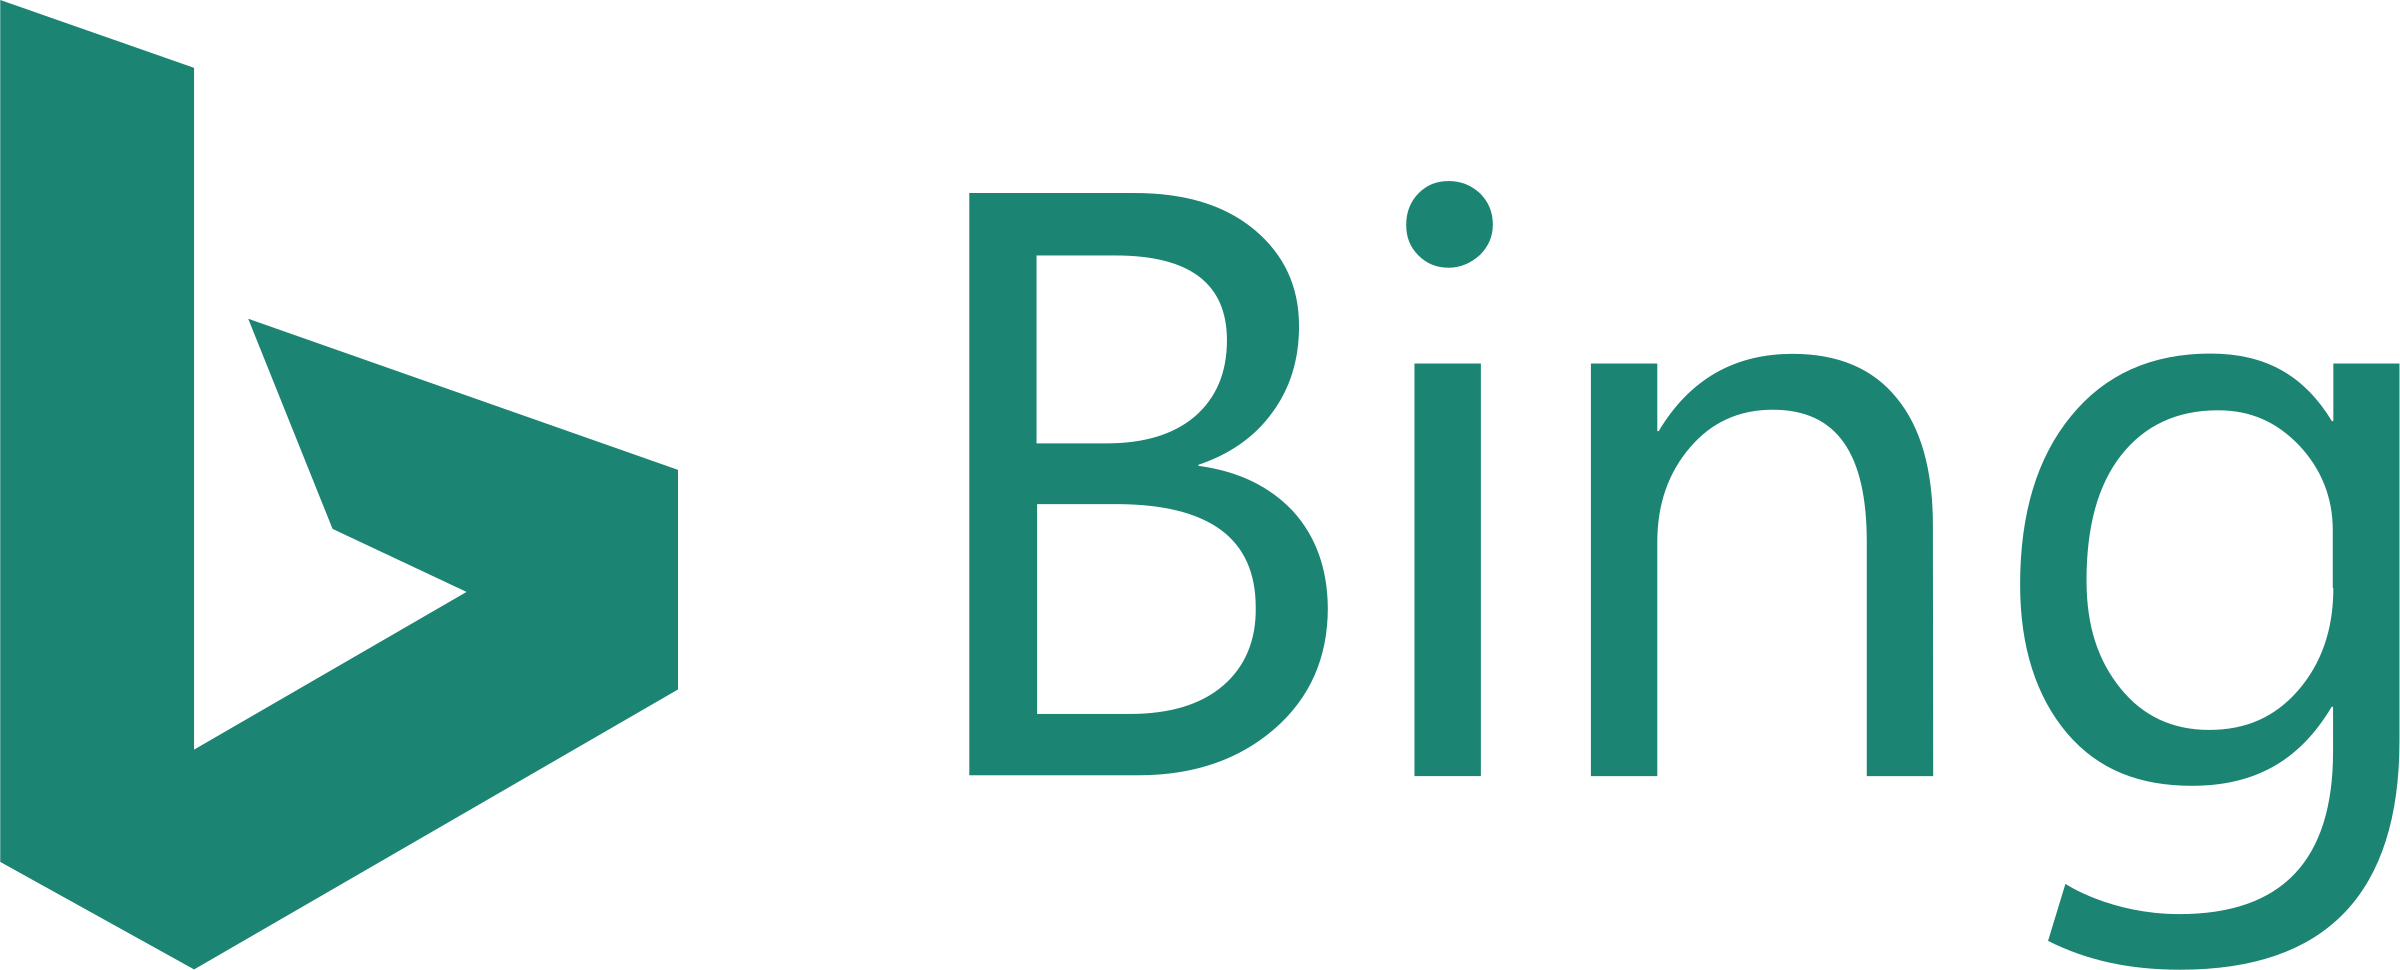
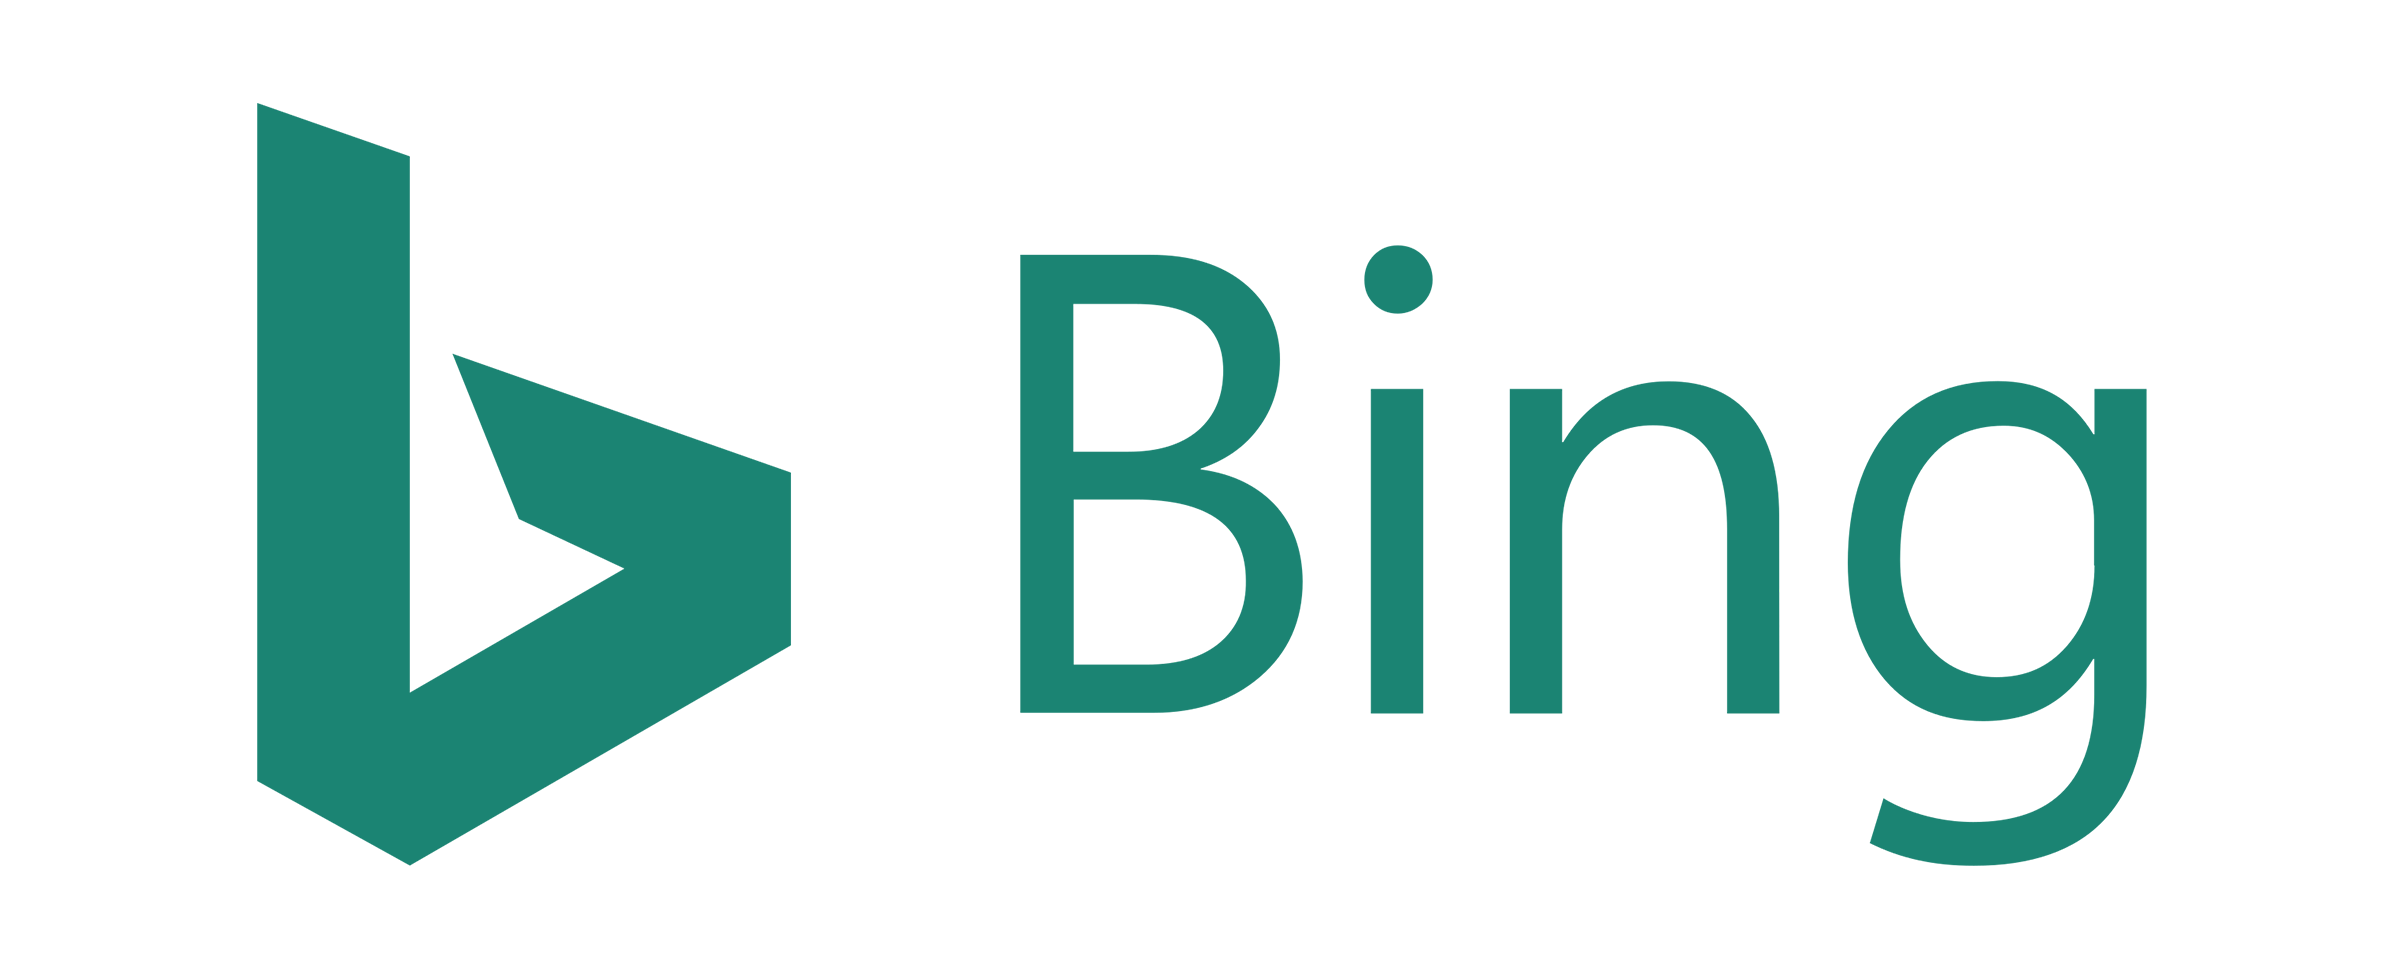
add change search engine

diff --git a/index.html b/index.html
@@ -20,7 +20,7 @@
 		<div class="search-box">
 			<!-- logo -->
 			<div id="logo">
-				<div>
+				<div id="state">
 					<img id="img" src="https://s2.ax1x.com/2020/01/26/1nnYwR.md.png">
 				</div>
 			</div>
@@ -40,16 +40,16 @@
 			</div>
 		</div>
 		<!-- 书签、引擎选择器 -->
-		<div class="Select" onclick="">导航 <img src="img/search-change.svg?v=2ae7ab8"></div>
+		<div id="Select" class="Select" onclick="select()">标签 <img src="img/search-change.svg?v=2ae7ab8"></div>
 
 		<!-- 书签 -->
-		<div class="folder">
+		<div id="folder" class="folder">
 			<ul>
 				<li class="folder-item col-xs-3 col-sm-3 col-md-3 col-lg-3">
 					<a href="folder://">
 						<div class="folder-item-box">
 							<img class="folder-item-img" src="img/folder.png">
-							<p style="text-align: center;">书签</p>
+							<p>书签</p>
 						</div>
 					</a>
 				</li>
@@ -57,7 +57,7 @@
 					<a href="http://via-app.cn">
 						<div class="folder-item-box">
 							<img class="folder-item-img" src="img/via.png">
-							<p style="text-align: center;">Via插件</p>
+							<p>Via插件</p>
 						</div>
 					</a>
 				</li>
@@ -65,7 +65,7 @@
 					<a href="https://tophub.today/">
 						<div class="folder-item-box">
 							<img class="folder-item-img" src="img/headline.png">
-							<p style="text-align: center;">热榜</p>
+							<p>热榜</p>
 						</div>
 					</a>
 				</li>
@@ -73,7 +73,7 @@
 					<a href="https://m.apkpure.com/cn/">
 						<div class="folder-item-box">
 							<img class="folder-item-img" src="img/apkpure.png">
-							<p style="text-align: center;">Apkpure</p>
+							<p>Apkpure</p>
 						</div>
 					</a>
 				</li>
@@ -81,7 +81,7 @@
 					<a href="https://www.htcp.net/">
 						<div class="folder-item-box">
 							<img class="folder-item-img" src="img/yunmeng.png">
-							<p style="text-align: center;">云梦</p>
+							<p>云梦</p>
 						</div>
 					</a>
 				</li>
@@ -89,7 +89,48 @@
 					<a href="http://www.carrotchou.blog">
 						<div class="folder-item-box">
 							<img class="folder-item-img" src="img/carrot.png">
-							<p style="text-align: center;">萝卜周</p>
+							<p>萝卜周</p>
+						</div>
+					</a>
+				</li>
+			</ul>
+		</div>
+
+		<!-- 导航引擎 -->
+		<div id="nav" class="nav">
+			<ul>
+				<li onclick="baidu()" class="folder-item col-xs-3 col-sm-3 col-md-3 col-lg-3">
+					<a id="baidu" href="#">
+						<div class="folder-item-box">
+							<img class="folder-item-img" src="img/baidu-xs.png">
+						</div>
+					</a>
+				</li>
+				<li onclick="google()" class="folder-item col-xs-3 col-sm-3 col-md-3 col-lg-3">
+					<a href="#">
+						<div class="folder-item-box">
+							<img class="folder-item-img" src="img/google-xs.png">
+						</div>
+					</a>
+				</li>
+				<li onclick="bing()" class="folder-item col-xs-3 col-sm-3 col-md-3 col-lg-3">
+					<a href="#">
+						<div class="folder-item-box">
+							<img class="folder-item-img" src="img/bing-xs.png">
+						</div>
+					</a>
+				</li>
+				<li onclick="yahoo()" class="folder-item col-xs-3 col-sm-3 col-md-3 col-lg-3">
+					<a href="#">
+						<div class="folder-item-box">
+							<img class="folder-item-img" src="img/yahoo-xs.png">
+						</div>
+					</a>
+				</li>
+				<li onclick="duckduckgo()" class="folder-item col-xs-3 col-sm-3 col-md-3 col-lg-3">
+					<a href="#">
+						<div class="folder-item-box">
+							<img class="folder-item-img" src="img/duckduckgo-xs.png">
 						</div>
 					</a>
 				</li>

diff --git a/js/function.js b/js/function.js
@@ -23,3 +23,67 @@ document.getElementById("title").innerHTML="一个导航 | Good morning";
 if (time < 5){
  document.getElementById("title").innerHTML="一个导航 | Stay up late again";
 }
+
+//导航、引擎选择器
+function select(){
+	if ($('#folder').css('display') == 'block') {
+		$('#folder').css('display', 'none');
+        $('#nav').css('display', 'block');
+        document.getElementById("Select").innerHTML = "导航 <img src='img/search-change.svg?v=2ae7ab8'>";
+    }else if ($('#nav').css('display') == 'block'){
+        $('#nav').css('display', 'none');
+        $('#folder').css('display', 'block');
+        document.getElementById("Select").innerHTML = "标签 <img src='img/search-change.svg?v=2ae7ab8'>";
+    }
+}
+
+// 切换搜索引擎
+function baidu(){
+	document.getElementById("state").innerHTML = "<img style='width:300px;' src='img/baidu.png'>";
+	$('#submitButton').css('background-color', '#3245df');
+	$('#Select').css('color', '#3245df');
+	$('span').css('background-color', '#3245df');
+    $('#nav').css('display', 'none');
+    $('#folder').css('display', 'block');
+    document.getElementById("Select").innerHTML = "标签 <img src='img/search-change.svg?v=2ae7ab8'>";
+}
+
+function google(){
+	document.getElementById("state").innerHTML = "<img style='width:300px;' src='img/google.png'>";
+	$('#submitButton').css('background-color', '#4285f4');
+	$('#Select').css('color', '#4285f4');
+	$('span').css('background-color', '#4285f4');
+    $('#nav').css('display', 'none');
+    $('#folder').css('display', 'block');
+    document.getElementById("Select").innerHTML = "标签 <img src='img/search-change.svg?v=2ae7ab8'>";
+}
+
+function bing(){
+	document.getElementById("state").innerHTML = "<img style='width:300px;' src='img/bing.png'>";
+	$('#submitButton').css('background-color', '#00868B');
+	$('#Select').css('color', '#00868B');
+	$('span').css('background-color', '#00868B');
+    $('#nav').css('display', 'none');
+    $('#folder').css('display', 'block');
+    document.getElementById("Select").innerHTML = "标签 <img src='img/search-change.svg?v=2ae7ab8'>";
+}
+
+function yahoo(){
+	document.getElementById("state").innerHTML = "<img style='width:300px;' src='img/yahoo.png'>";
+	$('#submitButton').css('background-color', '#5f01d1');
+	$('#Select').css('color', '#5f01d1');
+	$('span').css('background-color', '#5f01d1');
+    $('#nav').css('display', 'none');
+    $('#folder').css('display', 'block');
+    document.getElementById("Select").innerHTML = "标签 <img src='img/search-change.svg?v=2ae7ab8'>";
+}
+
+function duckduckgo(){
+	document.getElementById("state").innerHTML = "<img style='width:300px;' src='img/duckduckgo.png'>";
+	$('#submitButton').css('background-color', '#de5833');
+	$('#Select').css('color', '#de5833');
+	$('span').css('background-color', '#de5833');
+    $('#nav').css('display', 'none');
+    $('#folder').css('display', 'block');
+    document.getElementById("Select").innerHTML = "标签 <img src='img/search-change.svg?v=2ae7ab8'>";
+}

diff --git a/css/style.css b/css/style.css
@@ -1,3 +1,4 @@
+/*公共布局*/
 *{
 	/*background-image: url(../img/bg.jpg);*/
 	background-color: #fff;
@@ -17,7 +18,6 @@ li{
 ul{
 	padding: 0 10px;
 	display: inline-block;
-	/*flex-wrap: wrap;*/
 	width: 100%;
 	margin: 0 auto;
 }
@@ -26,6 +26,7 @@ html, body, .container{
 	height: 100%;
 }
 
+/*搜索盒子*/
 .search-box{
 	margin-top: 100px;
 }
@@ -43,6 +44,7 @@ html, body, .container{
 	width: 300px;
 }
 
+/*标签、导航选择器*/
 .Select{
 	margin: 20px auto 0;
 	color: #00868B;
@@ -53,6 +55,7 @@ html, body, .container{
 	font-size: 16px;
 }
 
+/*搜索按键*/
 .submitButton{
 	height: 39.8px;
 	width: 15%;
@@ -186,9 +189,11 @@ input:focus ~ .left {
   transform: scaleY(1);
 }
 
+/*标签*/
 .folder{
 	width: 100%;
 	margin-top: 10px;
+	display: block;
 }
 
 .folder-item-box p{
@@ -203,6 +208,14 @@ input:focus ~ .left {
 	margin: 0 auto;
 }
 
+/*导航*/
+.nav{
+	width: 100%;
+	margin-top: 10px;
+	display: none;
+}
+
+/*底栏*/
 .footer{
 	bottom: 10px;
 	position: fixed;
